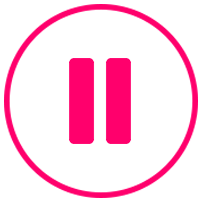
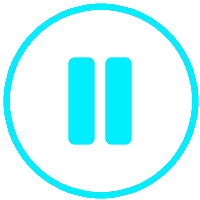
music

Changed region(s): [[0.0, 0.0, 1.0, 1.0], [0.51, 0.27, 0.66, 0.75], [0.33, 0.27, 0.48, 0.75]]

diff --git a/views/music.html b/views/music.html
@@ -12,8 +12,8 @@
 
     <div class="hero">
         <div class="music">
-            <p>Artist : NEFFEK</p>
-            <h1>NiwelTakayama</h1>
+            <p>Artist : Niwel</p>
+            <h1>Takayama</h1>
             <div class="track">
                 <img src="/img/play.png" id="playBtn">
                 <div id="waveform"></div>
@@ -27,8 +27,8 @@
 
         var wavesurfer = WaveSurfer.create({
             container: '#waveform',
-            waveColor: '#ddd',
-            progressColor: '#ff006c',
+            waveColor: '#fff',
+            progressColor: '#0ef',
             barWidth: 4,
             responsive: true,
             height: 90,
@@ -37,12 +37,16 @@
 
         wavesurfer.load('/media/NiwelTakayama.mp3');
     
-        playBtn.onclick = function(){            
+        playBtn.onclick = function(){              
             playing = !playing;
             wavesurfer.playPause();
-
             playBtn.src = playing ? playBtn.src = "/img/pause.png" : playBtn.src = "/img/play.png";    
         }
+        
+        // Autoplay
+        // wavesurfer.on('ready', () => {            
+        //     playBtn.click();
+        // });
 
         wavesurfer.on('finish', () => {
             playing = false;

diff --git a/public/css/music.css b/public/css/music.css
@@ -7,7 +7,7 @@
 .hero {
     width: 100%;
     height: 100vh;
-    background: #a9a9a9;
+    background: #1f242d;
     display: flex;
     align-items: center;
     justify-content: center;
@@ -17,9 +17,9 @@
     width: 90%;
     max-width: 900px;
     padding: 30px;
-    box-shadow: 0 0 20px rgba(red, 0, 0, 0.4);
-    background: #fff;
-    color: #555;
+    box-shadow: 0 0 20px rgba(0ef, 0, 0, 0.4);
+    background: #555;
+    color: #fff;
     border-radius: 8px;
 }
 

diff --git a/public/css/style.css b/public/css/style.css
@@ -38,6 +38,10 @@ section {
     display: none;
 }
 
+#menu-icon:hover {
+    cursor: pointer;
+}
+
 .header {
     position: fixed;
     top: 0;
